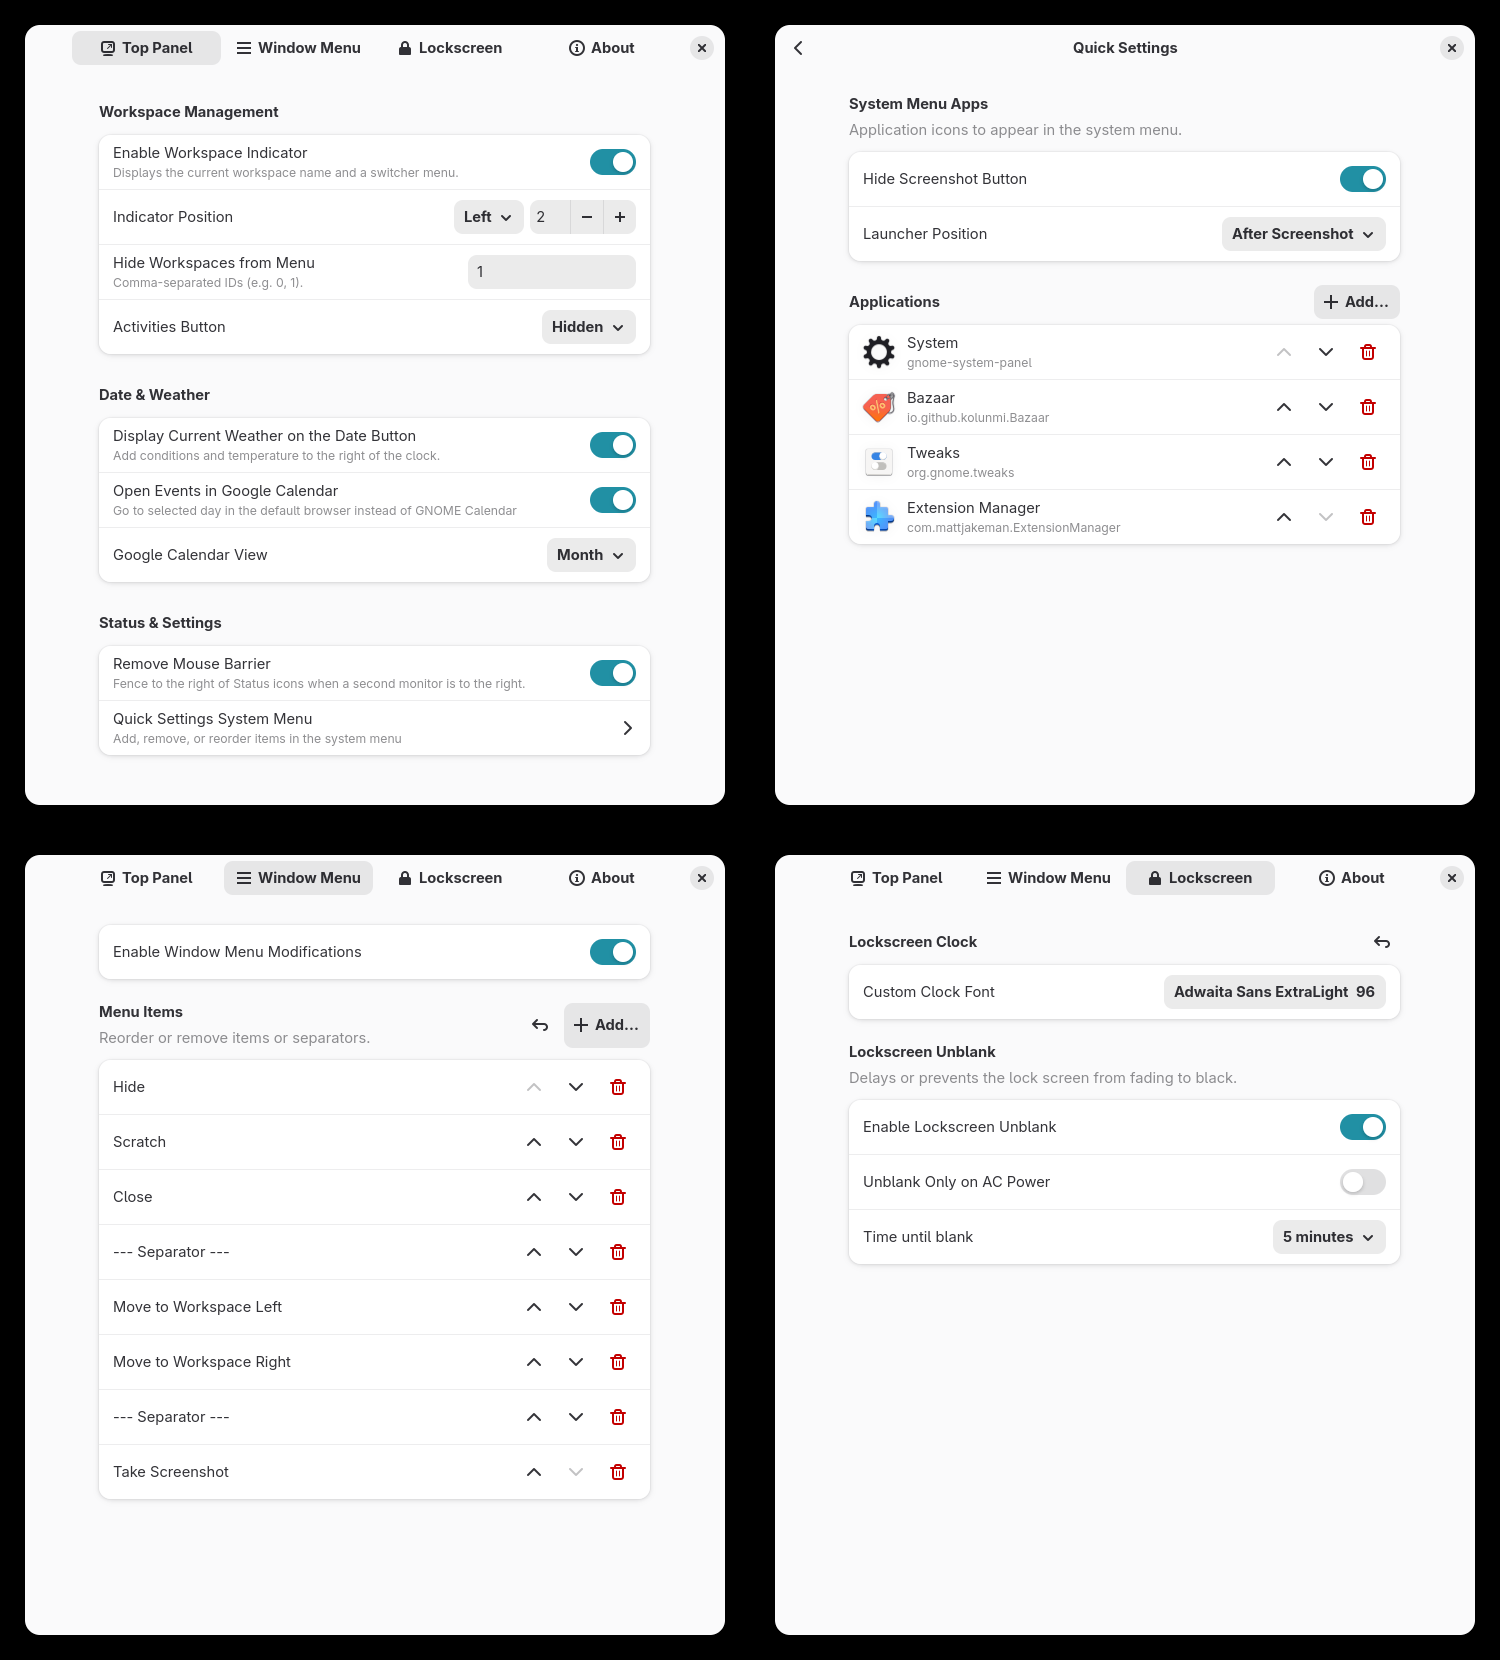
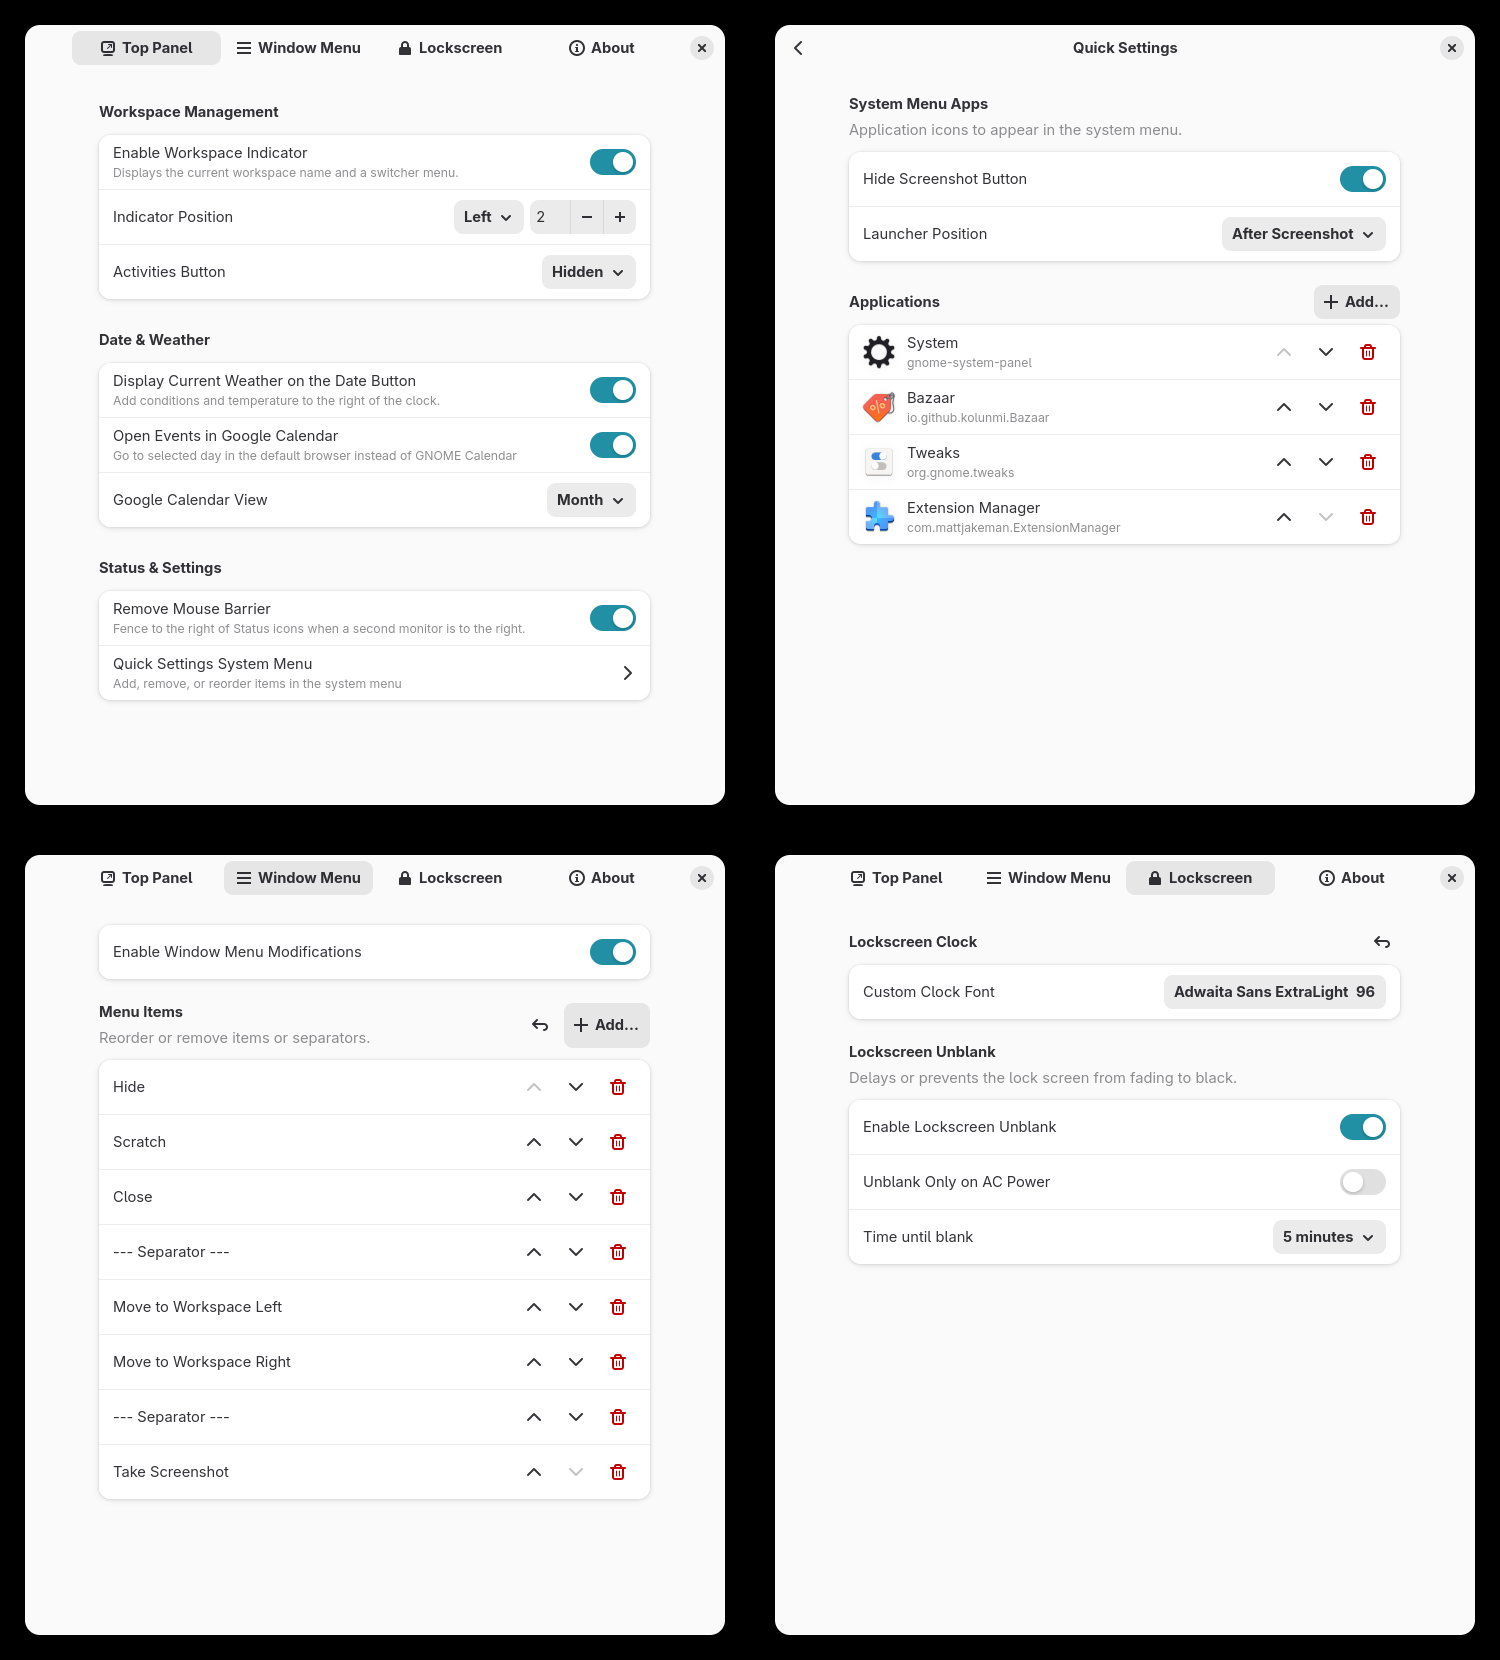
Refactored the workspace indicator to fully accommodate PaperWM workspace visibilty, removed hide workspace option as it's no longer necessary. Updated images for the documentation.

diff --git a/modules/workspaceIndicator.js b/modules/workspaceIndicator.js
@@ -18,9 +18,43 @@ import St from 'gi://St';
 import * as PanelMenu from 'resource:///org/gnome/shell/ui/panelMenu.js';
 import * as PopupMenu from 'resource:///org/gnome/shell/ui/popupMenu.js';
 
+const PAPERWM_UUID = 'paperwm@paperwm.github.com';
+
 // -----------------------
-// --- HELPER CLASS #1 ---
+// --- HELPER FUNCTION ---
 // -----------------------
+
+// Tries to get PaperWM's internal state for workspace visibility
+function getPaperWMVisibleIndices() {
+    const visible = new Set();
+    
+    // Wrapped in try/catch in case user disables PaperWM after load
+    try {
+        const paperwm = Main.extensionManager.lookup(PAPERWM_UUID);
+        
+        if (paperwm && 
+            paperwm.state === 1 && 
+            paperwm.stateObj && 
+            Array.isArray(paperwm.stateObj.modules)) {
+            
+            const TilingMod = paperwm.stateObj.modules.find(m => m && m.Space);
+            
+            if (TilingMod && TilingMod.spaces && TilingMod.spaces.monitors) {
+                for (const space of TilingMod.spaces.monitors.values()) {
+                    if (space) visible.add(space.index);
+                }
+            }
+        }
+    } catch (e) {
+        console.warn("Quibbles: PaperWM detection failed:", e);
+    }
+    
+    return visible;
+}
+
+// --------------------
+// --- HELPER CLASS ---
+// --------------------
 
 // Builds the indicator
 const MyIndicator = GObject.registerClass(
@@ -29,62 +63,96 @@ class MyIndicator extends PanelMenu.Button {
         super._init(0.5, 'My Workspace Indicator');
 
         this._settings = settings;
+        this._workspaceManager = global.workspace_manager;
+        this._wmSettings = new Gio.Settings({ schema: 'org.gnome.desktop.wm.preferences' });
 
-        const workspaceManager = global.workspace_manager;
-        const workspaceNamesSetting = new Gio.Settings({ schema: 'org.gnome.desktop.wm.preferences' });
-        const workspaceNames = workspaceNamesSetting.get_strv('workspace-names');
-        const activeWorkspaceIndex = workspaceManager.get_active_workspace_index();
-        const nWorkspaces = workspaceManager.get_n_workspaces();
-
-        const currentWorkspaceName = workspaceNames[activeWorkspaceIndex] || _("Workspace %d").format(activeWorkspaceIndex + 1);
-
-        const label = new St.Label({
-            text: currentWorkspaceName,
+        this._label = new St.Label({
+            text: "...",
             y_align: Clutter.ActorAlign.CENTER,
         });
-        this.add_child(label);
 
-        // Creates the switcher menu
+        this.add_child(this._label);
+        this._updateLabel();
+
+        // Placeholder item required to make the button clickable before lazy-load
+        this.menu.addMenuItem(new PopupMenu.PopupMenuItem("Loading...", { reactive: false }));
+
+        this._wsSignalId = this._workspaceManager.connect(
+            'active-workspace-changed', 
+            () => this._updateLabel()
+        );
+ 
+        this._nameSignalId = this._wmSettings.connect(
+            'changed::workspace-names', 
+            () => this._updateLabel()
+        );
+
+        this.menu.connect('open-state-changed', (menu, isOpen) => {
+            if (isOpen) {
+                this._refreshMenu();
+            }
+        });
+    }
+
+    // Updates the text on the panel button
+    _updateLabel() {
+        const activeIndex = this._workspaceManager.get_active_workspace_index();
+        const names = this._wmSettings.get_strv('workspace-names');
+        const name = names[activeIndex] || _("Workspace %d").format(activeIndex + 1);
+        this._label.set_text(name);
+    }
+
+    // Builds the dropdown menu content
+    _refreshMenu() {
+        this.menu.removeAll();
+
+        // Header
         const menuHeader = new PopupMenu.PopupMenuItem('Switch to', { reactive: false });
         menuHeader.style = 'padding-top: 0px; padding-bottom: 6px; min-height: 0;';
         menuHeader.label.style = 'font-size: 0.8em; font-weight: bold; color: #c0c0c0;';
         this.menu.addMenuItem(menuHeader);
 
-        const indicesToHideStr = this._settings.get_string('hide-workspace-indices');
-        const indicesToHide = new Set(
-            indicesToHideStr.split(',')
-                .map(s => parseInt(s.trim()))
-                .filter(n => !isNaN(n))
-        );
+        const nWorkspaces = this._workspaceManager.get_n_workspaces();
+        const activeIndex = this._workspaceManager.get_active_workspace_index();
+        const names = this._wmSettings.get_strv('workspace-names');
         
-        // Populates the switcher menu
+        const visibleIndices = getPaperWMVisibleIndices();
+        visibleIndices.add(activeIndex);
+
+        let addedAny = false;
+
         for (let i = 0; i < nWorkspaces; i++) {
-            
-            const isActive = (i === activeWorkspaceIndex);
-            const isManuallyHidden = indicesToHide.has(i);
+            if (visibleIndices.has(i)) continue;
 
-            if (isActive || isManuallyHidden) {
-                continue;
-            }
-
-            const workspace = workspaceManager.get_workspace_by_index(i);
+            const workspace = this._workspaceManager.get_workspace_by_index(i);
             if (!workspace) continue; 
 
-            const name = workspaceNames[i] || _("Workspace %d").format(i + 1);
+            const name = names[i] || _("Workspace %d").format(i + 1);
             const menuItem = new PopupMenu.PopupMenuItem(name);
 
             menuItem.connect('activate', () => {
                 workspace.activate(global.get_current_time());
             });
             this.menu.addMenuItem(menuItem);
+            addedAny = true;
         }
 
-        // Accounts for fixed workspaces which are all visible
-        if (this.menu.numMenuItems <= 1) {
+        if (!addedAny) {
             this.menu.removeAll();
-            const testItem = new PopupMenu.PopupMenuItem('No hidden workspaces', { reactive: false });
+            const testItem = new PopupMenu.PopupMenuItem('All workspaces visible', { reactive: false });
             this.menu.addMenuItem(testItem);
         }
+    }
+
+    // Cleans up signals when the indicator is removed
+    destroy() {
+        if (this._wsSignalId) {
+            this._workspaceManager.disconnect(this._wsSignalId);
+        }
+        if (this._nameSignalId) {
+            this._wmSettings.disconnect(this._nameSignalId);
+        }
+        super.destroy();
     }
 });
 
@@ -96,97 +164,52 @@ export class WorkspaceIndicatorFeature {
 
     constructor(settings) {
         this._settings = settings;
-        this._settingsConnection = null;
         this._indicator = null;
-        this._workspaceChangedId = null;
-        this._hideSettingId = null;
-        this._positionSettingId = null;
-        this._indexSettingId = null;
+        this._settingsConnections = [];
     }
 
     // ------------------------
     // --- Enable & Cleanup ---
     // ------------------------
-    
+        
     enable() {
-        this._settingsConnection = this._settings.connect(
-            'changed::enable-workspace-indicator',
-            () => this._updateWorkspaceIndicator()
+        this._settingsConnections.push(
+            this._settings.connect('changed::enable-workspace-indicator', () => this._updateState())
         );
-        
-        this._hideSettingId = this._settings.connect(
-            'changed::hide-workspace-indices',
-            () => this._rebuildIndicator()
+
+        const rebuild = () => { if (this._indicator) this._rebuild(); };
+        this._settingsConnections.push(
+            this._settings.connect('changed::workspace-indicator-position', rebuild)
         );
-        
-        this._positionSettingId = this._settings.connect(
-            'changed::workspace-indicator-position',
-            () => this._rebuildIndicator()
+        this._settingsConnections.push(
+            this._settings.connect('changed::workspace-indicator-index', rebuild)
         );
-        
-        this._indexSettingId = this._settings.connect(
-            'changed::workspace-indicator-index',
-            () => this._rebuildIndicator()
-        );
-        
-        this._updateWorkspaceIndicator();
+ 
+        this._updateState();
     }
 
     disable() {
-        if (this._settingsConnection) {
-            this._settings.disconnect(this._settingsConnection);
-            this._settingsConnection = null;
-        }
-        
-        if (this._hideSettingId) {
-            this._settings.disconnect(this._hideSettingId);
-            this._hideSettingId = null;
-        }
-
-        if (this._positionSettingId) {
-            this._settings.disconnect(this._positionSettingId);
-            this._positionSettingId = null;
-        }
-        
-        if (this._indexSettingId) {
-            this._settings.disconnect(this._indexSettingId);
-            this._indexSettingId = null;
-        }
-        
-        this._destroyIndicator();
+        this._settingsConnections.forEach(id => this._settings.disconnect(id));
+        this._settingsConnections = [];
+        this._destroy();
     }
 
     // -------------
     // --- Logic ---
     // -------------
 
-    // Identifies whether the feature is enabled
-    _updateWorkspaceIndicator() {
+    // Checks settings to decide whether to create or destroy the indicator
+    _updateState() {
         if (this._settings.get_boolean('enable-workspace-indicator')) {
-            if (!this._indicator) {
-                this._indicator = new MyIndicator(this._settings);
-                
-                const position = this._settings.get_string('workspace-indicator-position');
-                const index = this._settings.get_int('workspace-indicator-index');
-                Main.panel.addToStatusArea('quibbles-workspace-indicator', this._indicator, index, position);
-                
-                this._workspaceChangedId = global.workspace_manager.connect(
-                    'active-workspace-changed',
-                    this._rebuildIndicator.bind(this)
-                );
-            }
+            if (!this._indicator) this._rebuild();
         } else {
-            if (this._indicator) {
-                this._destroyIndicator();
-            }
+            this._destroy();
         }
     }
     
-    // Changes what the indicator displays
-    _rebuildIndicator() {
-        if (!this._indicator) return;
-
-        this._indicator?.destroy();
+    // Destroys and recreates the indicator
+    _rebuild() {
+        this._destroy();
         this._indicator = new MyIndicator(this._settings);
         
         const position = this._settings.get_string('workspace-indicator-position');
@@ -194,13 +217,11 @@ export class WorkspaceIndicatorFeature {
         Main.panel.addToStatusArea('quibbles-workspace-indicator', this._indicator, index, position);
     }
 
-    // Disconnects and destroys the indicator
-    _destroyIndicator() {
-        if (this._workspaceChangedId) {
-            global.workspace_manager.disconnect(this._workspaceChangedId);
-            this._workspaceChangedId = null;
+    // Safely removes the indicator from the panel
+    _destroy() {
+        if (this._indicator) {
+            this._indicator.destroy();
+            this._indicator = null;
         }
-        this._indicator?.destroy();
-        this._indicator = null;
     }
 }

diff --git a/prefs/TopPanelPage.js b/prefs/TopPanelPage.js
@@ -280,28 +280,6 @@ export class TopPanelPage {
             'sensitive',
             Gio.SettingsBindFlags.DEFAULT
         );
-
-        // --- Hide Indices ---
-        const hideIndicesRow = new Adw.ActionRow({
-            title: _('Hide Workspaces from Menu'),
-            subtitle: _('Comma-separated IDs (e.g. 0, 1).'),
-        });
-        
-        const entry = new Gtk.Entry({
-            text: settings.get_string('hide-workspace-indices'),
-            valign: Gtk.Align.CENTER,
-        });
-        
-        settings.bind('hide-workspace-indices', entry, 'text', Gio.SettingsBindFlags.DEFAULT);
-        hideIndicesRow.add_suffix(entry);
-        wsGroup.add(hideIndicesRow);
-
-        settings.bind(
-            'enable-workspace-indicator',
-            hideIndicesRow,
-            'sensitive',
-            Gio.SettingsBindFlags.DEFAULT
-        );
         
         // --- Activiites Button ---
         const actRow = new Adw.ActionRow({ title: _('Activities Button') });
